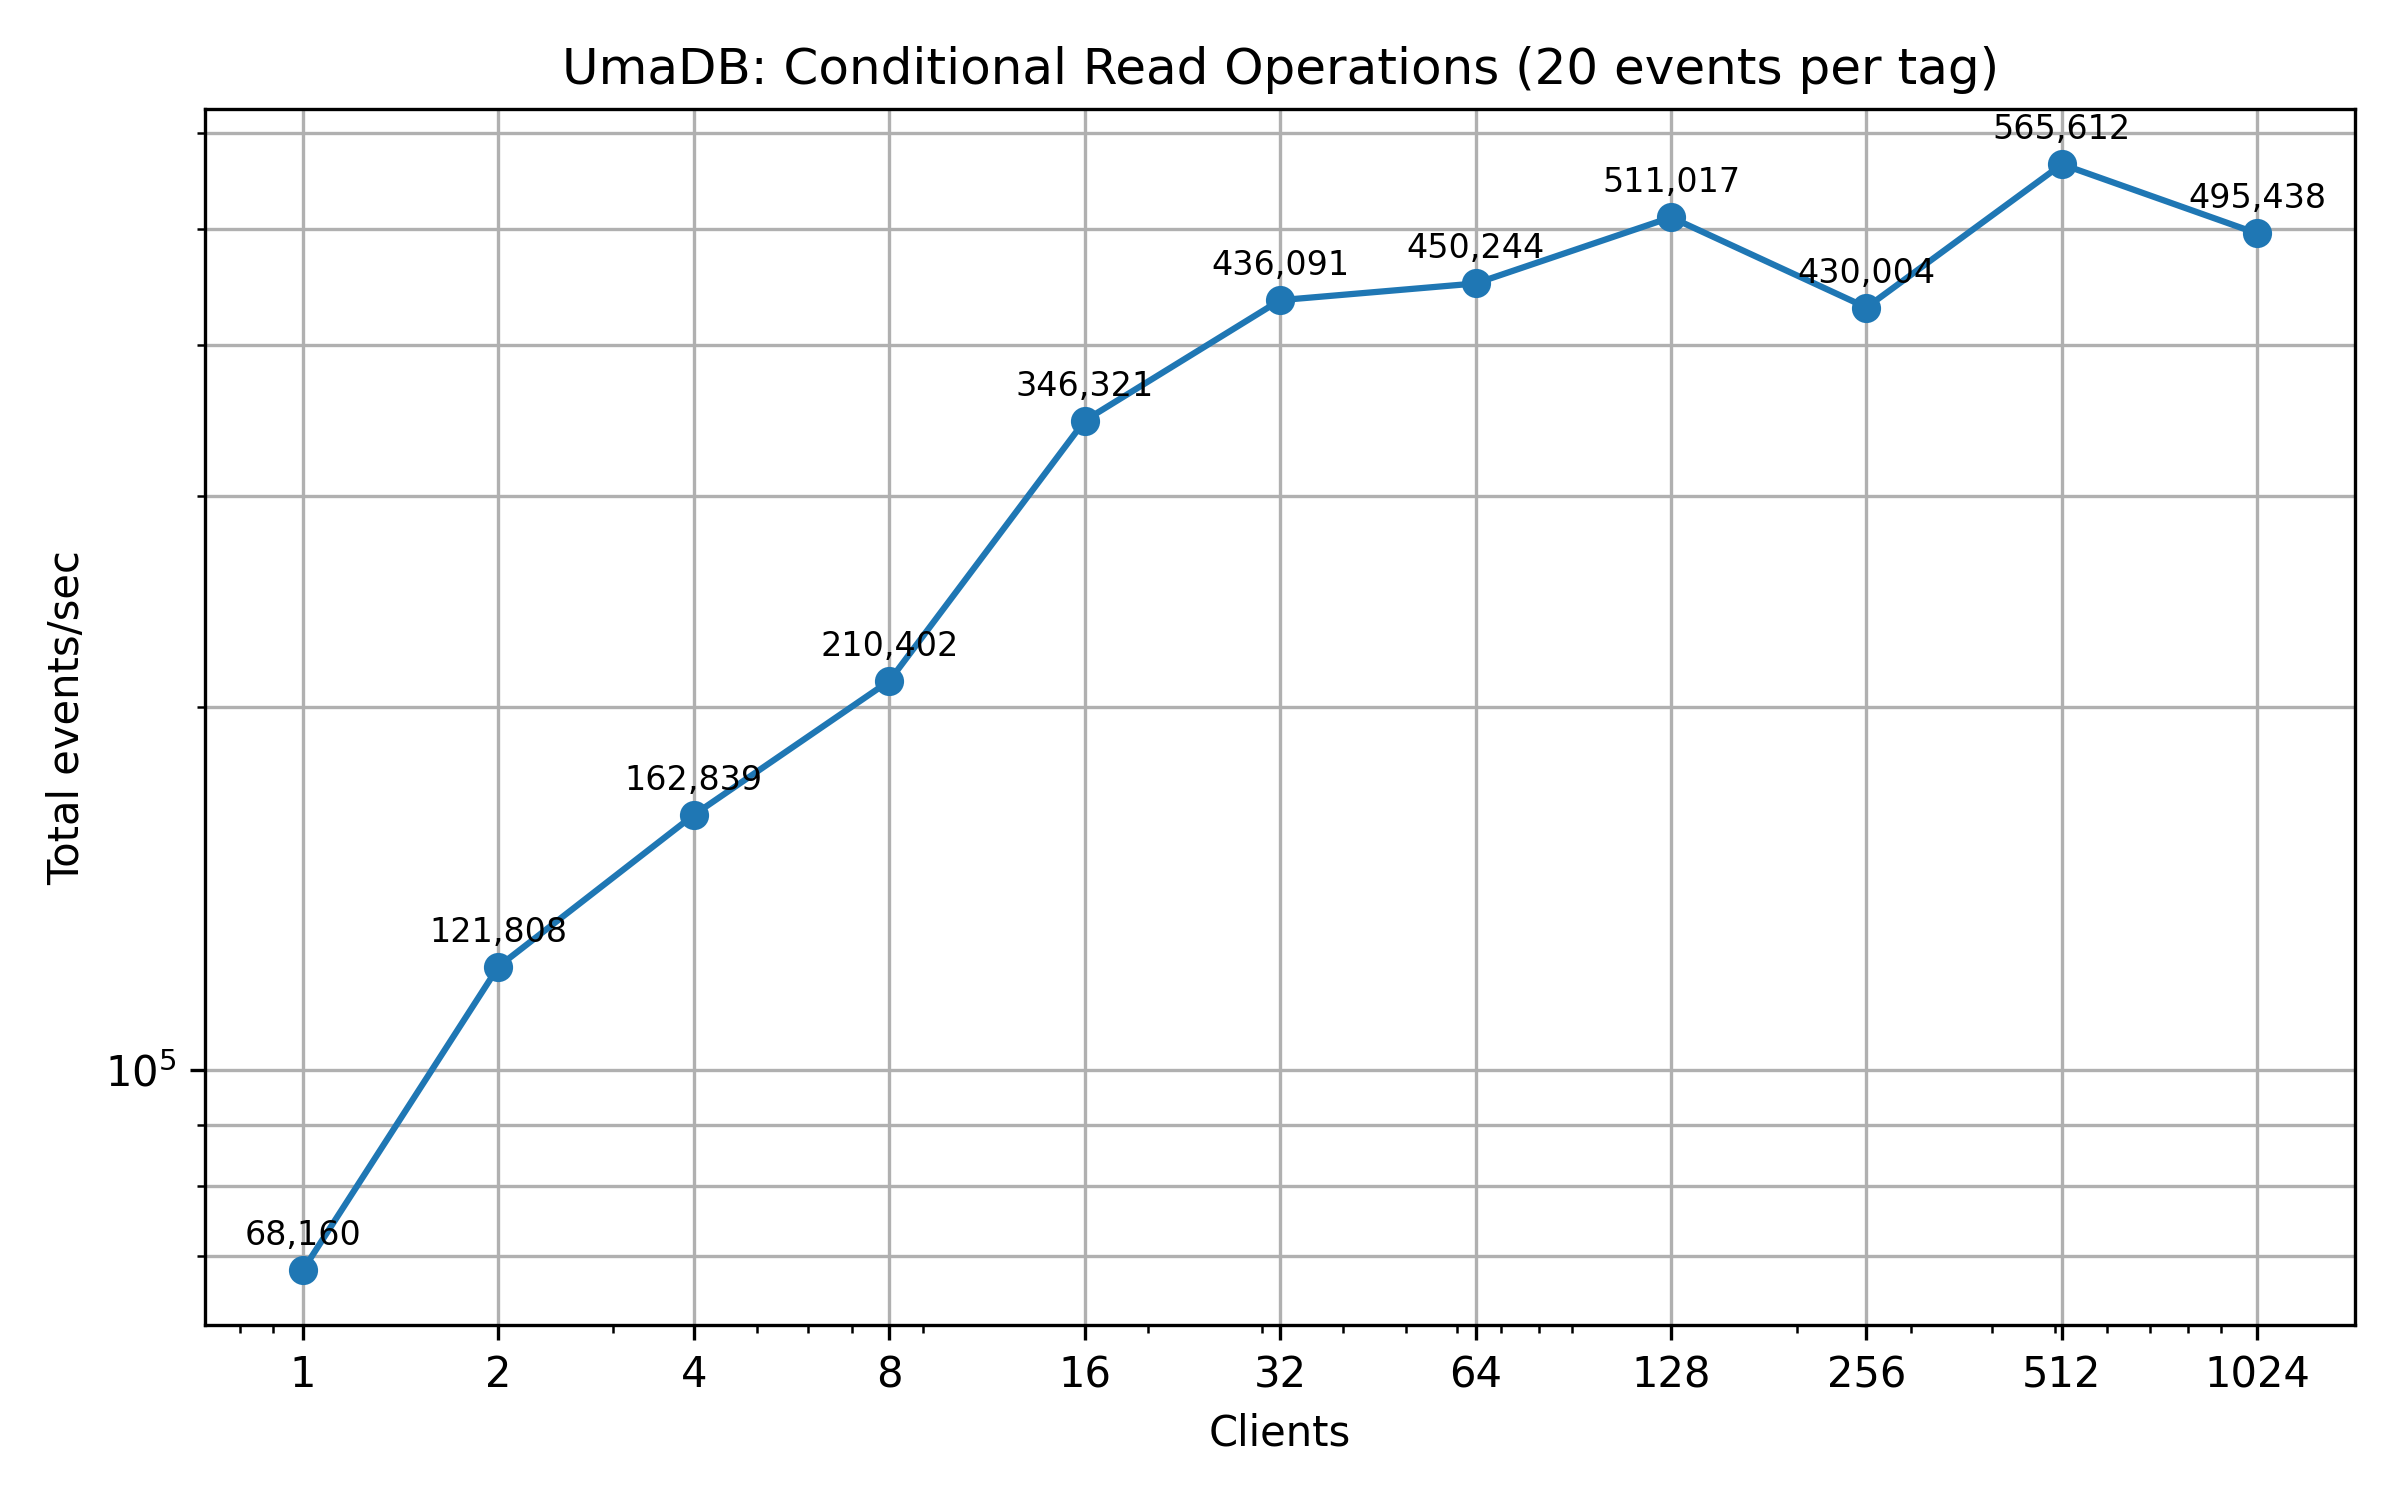
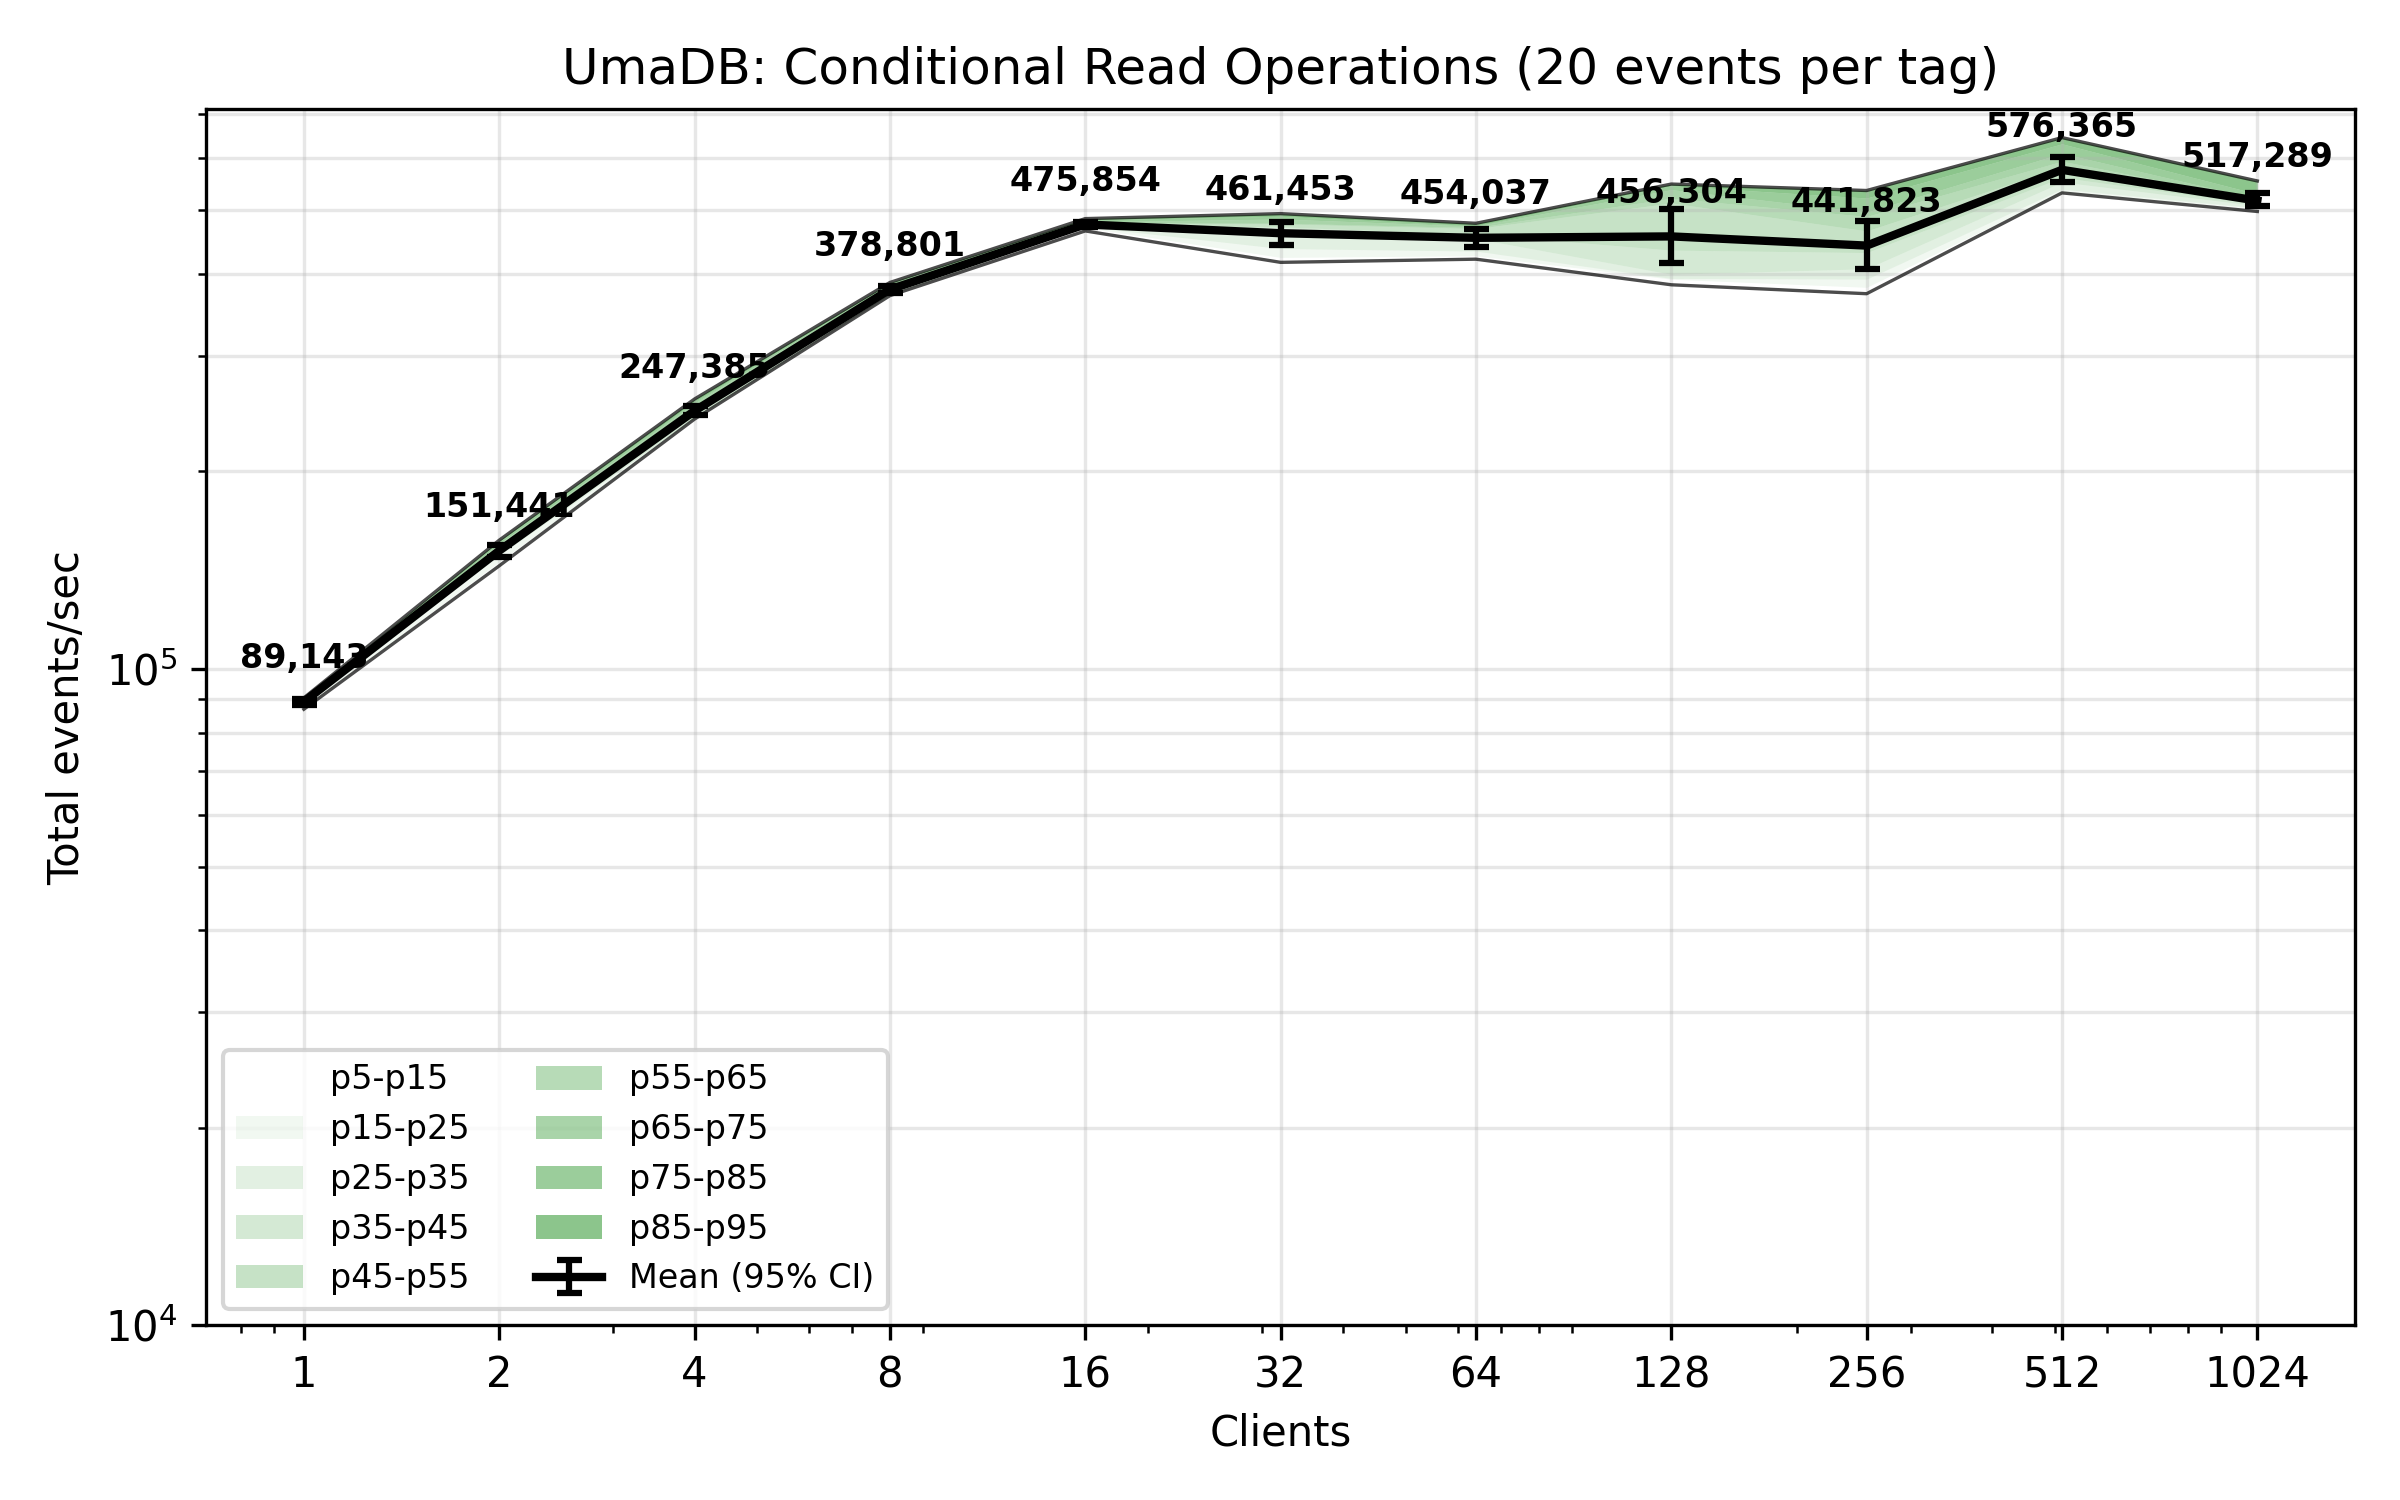
Adjusted plotting for conditional read.

diff --git a/crates/benches/benches/grpc_read_cond_bench_plot.py b/crates/benches/benches/grpc_read_cond_bench_plot.py
@@ -1,48 +1,151 @@
-import pandas as pd
+import json
+import numpy as np
 import matplotlib.pyplot as plt
 from pathlib import Path
+import os
 
-# Keep this in sync with benches/grpc_read_bench
-TOTAL_EVENTS = 20
+# Keep this in sync with benches/grpc_read_cond_bench.rs
+TOTAL_EVENTS = 20  # events per tag
+MAX_THREADS = int(os.environ.get('MAX_THREADS', '0')) if os.environ.get('MAX_THREADS') else None
 
-# Thread variants you ran (match the bench). You can edit this if you change the bench.
-# threads = [1, 2, 4, 8, 16, 32, 64, 128, 256, 512, 1024]
-threads = [1, 2, 4, 8, 16, 32, 64, 128, 256, 512, 1024]
+# Thread variants you ran (match the bench). Edit if you change the bench.
+all_threads = [1, 2, 4, 8, 16, 32, 64, 128, 256, 512, 1024]
+threads = [t for t in all_threads if MAX_THREADS is None or t <= MAX_THREADS]
 
 x = []
-throughputs = []  # events per second (total across threads)
+mean_throughputs = []
+ci_lower_throughputs = []
+ci_upper_throughputs = []
+# Store percentile throughputs for bands from p5 to p95
+# percentile_throughputs[i] contains list of throughputs for (5+i*10) percentile
+percentile_throughputs = [[] for _ in range(10)]  # 5, 15, 25, ..., 85, 95
 
 for t in threads:
+    sample_path = Path(f"target/criterion/grpc_read_cond/{t}/new/sample.json")
     est_path = Path(f"target/criterion/grpc_read_cond/{t}/new/estimates.json")
-    if not est_path.exists():
+    if not sample_path.exists() or not est_path.exists():
         # Skip missing variants gracefully
         continue
-    est = pd.read_json(est_path)
-    mean_ns = est.loc['point_estimate', 'mean']
+    
+    with open(sample_path, 'r') as f:
+        sample_data = json.load(f)
+    
+    with open(est_path, 'r') as f:
+        est_data = json.load(f)
+    
+    # Extract times and iteration counts
+    times = np.array(sample_data['times'])
+    iters = np.array(sample_data['iters'])
+    
+    # Calculate per-iteration times (nanoseconds per iteration)
+    per_iter_times = times / iters
+    
+    # Calculate percentiles for bands from p5 to p95 (5, 15, 25, ..., 85, 95)
+    percentiles = [np.percentile(per_iter_times, p) for p in range(5, 96, 10)]
+    
+    # Get mean from estimates
+    mean_ns = est_data['mean']['point_estimate']
     mean_sec = mean_ns / 1e9
-
-    events_per_iter = TOTAL_EVENTS * t
-    eps = events_per_iter / mean_sec  # events per second
-
+    
+    # Get confidence interval bounds for mean
+    ci_lower_ns = est_data['mean']['confidence_interval']['lower_bound']
+    ci_upper_ns = est_data['mean']['confidence_interval']['upper_bound']
+    ci_lower_sec = ci_lower_ns / 1e9
+    ci_upper_sec = ci_upper_ns / 1e9
+    
+    events_total = TOTAL_EVENTS * t  # total across all threads for this variant
+    
+    # Calculate mean throughput
+    mean_eps = events_total / mean_sec
+    
+    # Calculate CI throughputs (note: inverse relationship with time)
+    # Lower time bound = upper throughput bound, upper time bound = lower throughput bound
+    ci_lower_eps = events_total / ci_upper_sec
+    ci_upper_eps = events_total / ci_lower_sec
+    
+    # Calculate throughput for each percentile (note: inverse relationship with time)
+    # Lower time = higher throughput, so we reverse the percentiles
+    percentile_eps = [events_total / (p_ns / 1e9) for p_ns in reversed(percentiles)]
+    
     x.append(t)
-    throughputs.append(eps)
+    mean_throughputs.append(mean_eps)
+    ci_lower_throughputs.append(ci_lower_eps)
+    ci_upper_throughputs.append(ci_upper_eps)
+    for i, eps in enumerate(percentile_eps):
+        percentile_throughputs[i].append(eps)
+
+# Check if any data was found
+if len(x) == 0:
+    print(f"Error: No benchmark data found for grpc_read_cond_bench")
+    print(f"Expected to find data in: target/criterion/grpc_read_cond/*/new/")
+    print(f"Please run the benchmark first: make bench-read-cond")
+    exit(1)
 
 plt.figure(figsize=(8, 5))
-plt.plot(x, throughputs, marker='o')
+
+# Plot percentile bands from p5 to p95 with progressive shading
+# Band 0: p5-p15 (lightest)
+# Band 1: p15-p25
+# ...
+# Band 7: p75-p85
+# Band 8: p85-p95 (darkest)
+# We want top bands darker, so band 8 (85-95) should be darkest
+
+# Use a color map to create progressive shading from light to dark
+base_color = 'green'
+num_bands = 9
+
+for i in range(num_bands):
+    # Calculate alpha: lightest at bottom (i=0), darkest at top (i=8)
+    # Use range from 0.15 to 0.6 for good visibility
+    alpha = 0.0 + (i / (num_bands - 1)) * 0.45
+    
+    lower = percentile_throughputs[i]
+    upper = percentile_throughputs[i + 1]
+    
+    # Calculate percentile values for labels: 5, 15, 25, ..., 85, 95
+    p_lower = 5 + i * 10
+    p_upper = 5 + (i + 1) * 10
+    
+    label = f'p{p_lower}-p{p_upper}'
+
+    plt.fill_between(x, lower, upper, alpha=alpha, color=base_color, label=label, linewidth=0)
+
+# Add thin black lines at p5 and p95 boundaries
+plt.plot(x, percentile_throughputs[0], linestyle='-', linewidth=0.8, color='black', alpha=0.7, zorder=5)
+plt.plot(x, percentile_throughputs[9], linestyle='-', linewidth=0.8, color='black', alpha=0.7, zorder=5)
+
+# Calculate error bar values (asymmetric errors)
+yerr_lower = [mean - lower for mean, lower in zip(mean_throughputs, ci_lower_throughputs)]
+yerr_upper = [upper - mean for mean, upper in zip(mean_throughputs, ci_upper_throughputs)]
+
+# Plot mean throughput with round markers in black and confidence intervals
+plt.errorbar(x, mean_throughputs, yerr=[yerr_lower, yerr_upper], 
+             marker='', linestyle='-', linewidth=2, markersize=4,
+             label='Mean (95% CI)', color='black', capsize=3, capthick=1.5, 
+             elinewidth=1.5, zorder=10)
+
+# Add numerical annotations for mean values
+for t, eps in zip(x, mean_throughputs):
+    plt.annotate(f"{eps:,.0f}", (t, eps), textcoords="offset points", 
+                xytext=(0, 8), ha='center', fontsize=8, fontweight='bold')
+
 plt.xscale('log')
 plt.yscale('log')
 plt.xlabel('Clients')
 plt.ylabel('Total events/sec')
 plt.title(f'UmaDB: Conditional Read Operations ({TOTAL_EVENTS} events per tag)')
 # Show y-axis grid lines and x-axis grid lines only at major ticks (the labeled x ticks)
-plt.grid(True, which='both', axis='y')
-plt.grid(True, which='major', axis='x')
+plt.grid(True, which='both', axis='y', alpha=0.3)
+plt.grid(True, which='major', axis='x', alpha=0.3)
 plt.xticks(x, [str(t) for t in x])
-# plt.ylim(90000, 1000000)
+plt.legend(loc='best', fontsize=8, ncol=2)
 
-# Optional: annotate points
-for t, eps in zip(x, throughputs):
-    plt.annotate(f"{eps:,.0f}", (t, eps), textcoords="offset points", xytext=(0, 6), ha='center', fontsize=8)
+# Set y-axis minimum to the lowest plotted value rounded down to the next power of 10
+min_value = min(percentile_throughputs[0])  # p5 percentile has the lowest values
+# Round down to the next power of 10: 10^floor(log10(min_value))
+y_min = 10 ** np.floor(np.log10(min_value))
+plt.ylim(bottom=y_min)
 
 plt.tight_layout()
 plt.savefig(f"UmaDB-read-cond-bench.png", format="png", dpi=300)

diff --git a/crates/benches/benches/grpc_read_cond_bench.rs b/crates/benches/benches/grpc_read_cond_bench.rs
@@ -16,6 +16,12 @@ use umadb_server::start_server;
 const EVENTS_PER_TAG: u32 = 20;
 const BATCH_SIZE: u32 = 10000;
 
+fn get_max_threads() -> Option<usize> {
+    std::env::var("MAX_THREADS")
+        .ok()
+        .and_then(|s| s.parse().ok())
+}
+
 fn init_db_with_events() -> (tempfile::TempDir, String) {
     let dir = tempdir().expect("tempdir");
     let path = dir.path().to_str().unwrap().to_string();
@@ -95,7 +101,15 @@ pub fn grpc_read_cond_benchmark(c: &mut Criterion) {
     group.sample_size(10);
     group.measurement_time(Duration::from_secs(10));
 
-    for &threads in &[1usize, 2, 4, 8, 16, 32, 64, 128, 256, 512, 1024] {
+    let all_threads = [1usize, 2, 4, 8, 16, 32, 64, 128, 256, 512, 1024];
+    let max_threads = get_max_threads();
+    let thread_counts: Vec<usize> = all_threads
+        .iter()
+        .copied()
+        .filter(|&t| max_threads.map_or(true, |max| t <= max))
+        .collect();
+
+    for &threads in &thread_counts {
         // Report throughput as the total across all runtime worker threads
         group.throughput(Throughput::Elements(
             (EVENTS_PER_TAG as u64) * (threads as u64),

diff --git a/README.md b/README.md
@@ -359,7 +359,7 @@ is writing 100 events per request (no append condition).
 
 ![UmaDB benchmark](UmaDB-append-bench-100-per-request.png)
 
-### Append with Concurrent Reader
+### Append with Concurrent Readers
 
 The benchmark plot below shows total appended events per second from concurrent clients, whilst
 there are four other clients concurrently reading events. Each client is writing 1 event per request (no append condition).
@@ -385,6 +385,8 @@ The benchmark plot below shows total events received per second across concurren
 The rate is ultimately constrained by the CPU and network channel limitations.
 
 ![UmaDB benchmark](UmaDB-read-unthrottled-bench.png)
+
+### Read with Concurrent Writers
 
 The benchmark plot below shows total events received per second across concurrent client read operations, whilst there are four other
 clients concurrently appending events. This plot shows reading is not drastically impeded by concurrent writers.
